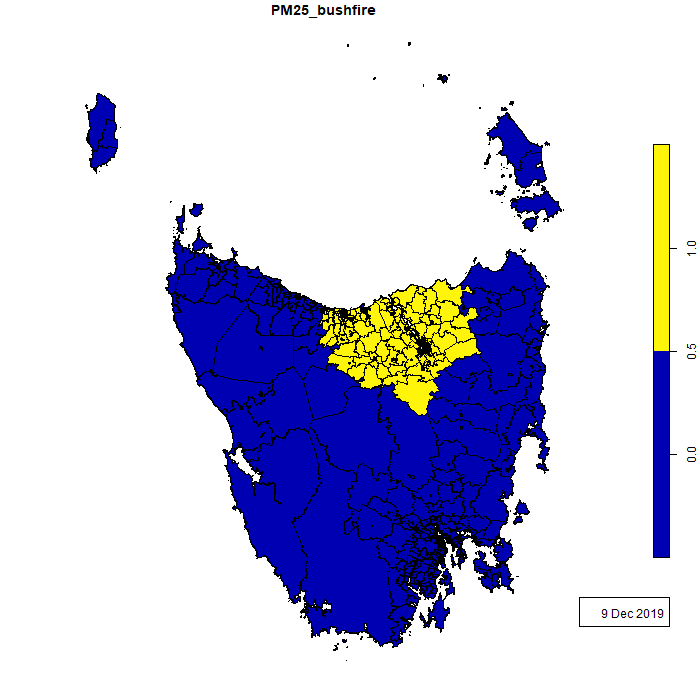
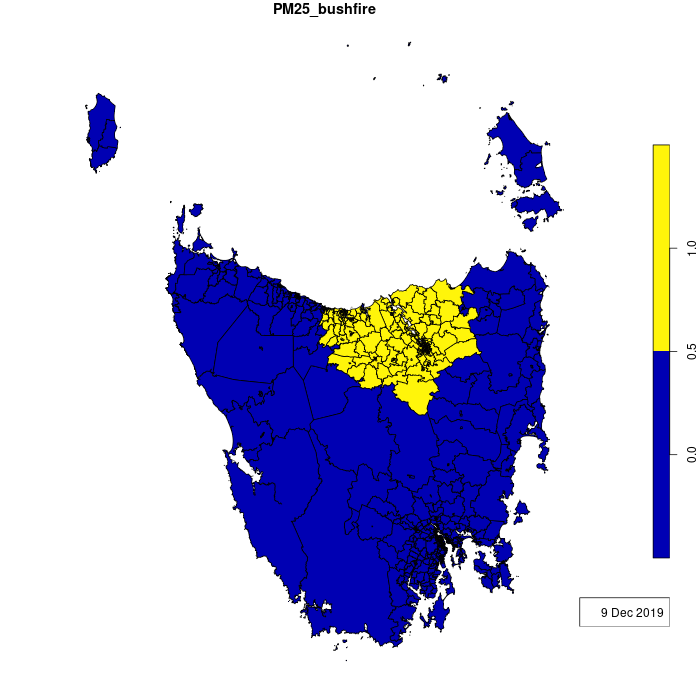
add imgs

diff --git a/README.md b/README.md
@@ -77,9 +77,9 @@ With R we can assign smoke levels to ABS census geographic units and use indicat
 
 And here is some maps of SA1 census geography units with spatially weighted PM2.5 and identified bushfire smoke areas:
 
-![do_map_abs_sa1_pm25_tas_20160122.png](working_ivan/do_map_abs_sa1_pm25_tas_20160122.png)
+![do_map_abs_sa1_pm25_tas_20191209.png](working_ivan/do_map_abs_sa1_pm25_tas_20191209.png)
 
-![do_map_abs_sa1_pm25_bushfire_tas_20160122.png](working_ivan/do_map_abs_sa1_pm25_bushfire_tas_20160122.png)
+![do_map_abs_sa1_pm25_bushfire_tas_20191209.png](working_ivan/do_map_abs_sa1_pm25_bushfire_tas_20191209.png)
 
 ## an example of the gridded data
 
@@ -101,4 +101,4 @@ plot(b2)
 
 Will give the following
 
-![working_ivan/do_map_abs_sa1_pm25_pred_national_20160122.png](working_ivan/do_map_abs_sa1_pm25_pred_national_20160122.png)
+![working_ivan/do_map_abs_sa1_pm25_pred_national_20191209.png](working_ivan/do_map_abs_sa1_pm25_pred_national_20191209.png)
